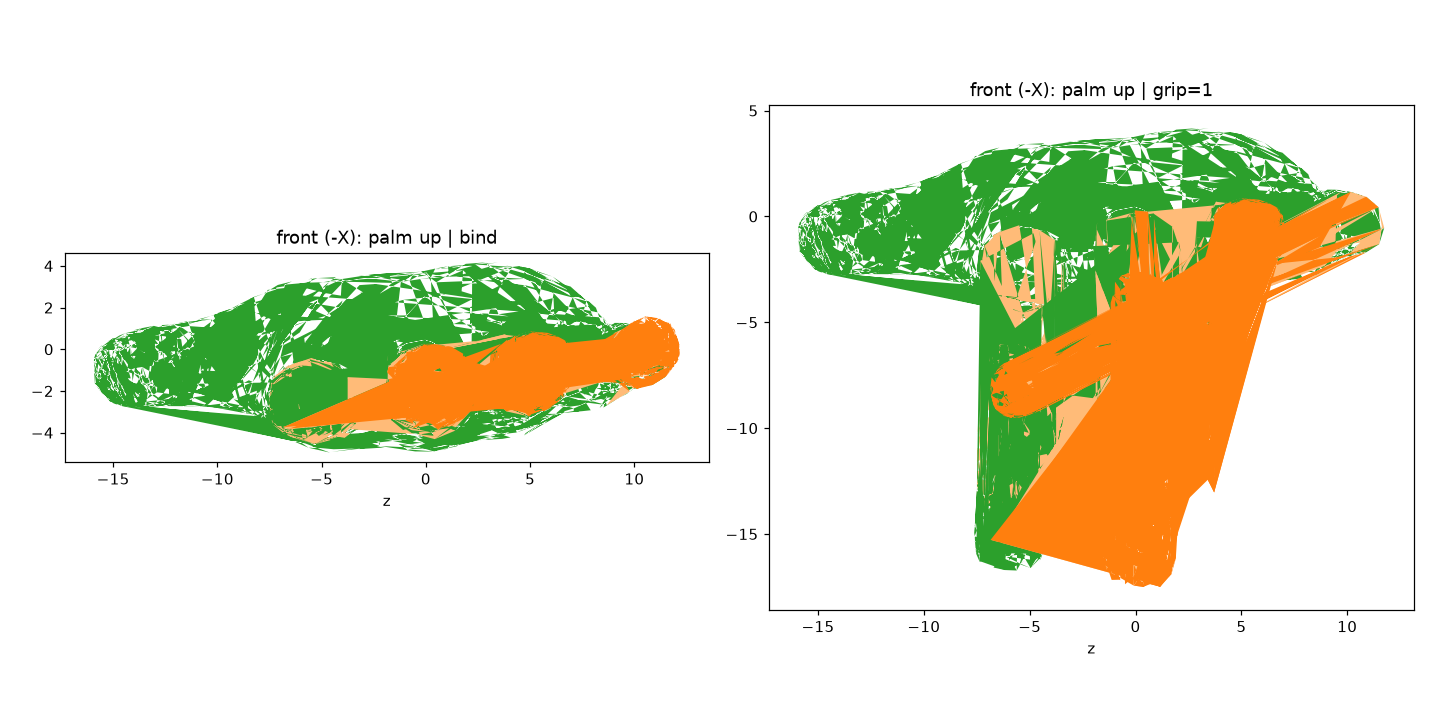
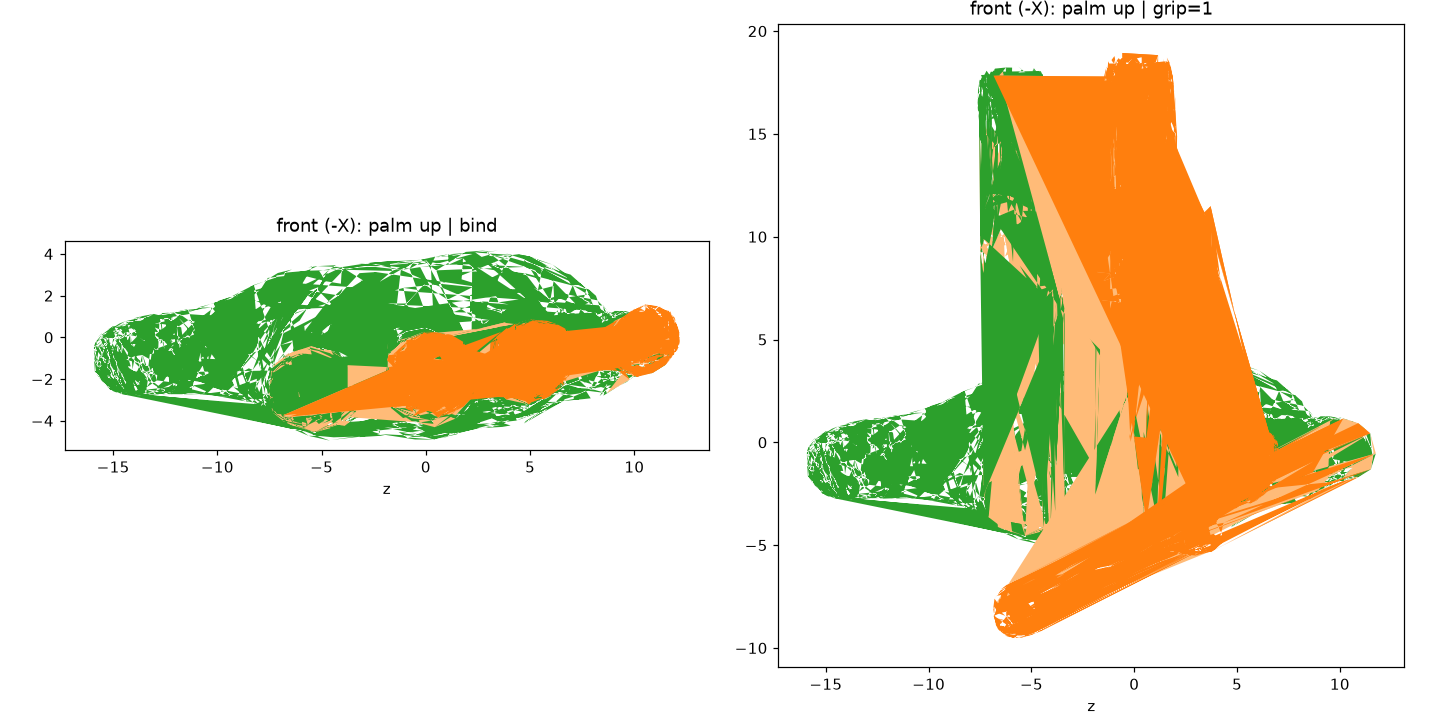
fix(vr-hands): correct runtime finger fold direction
With the corrected bind pivots the old axes (R +z, L -z) bent the fingers
backward (tips ~10 units above the palm, left hand mirrored wrong). Flip
to R -z / L +z: fingers now curl toward the palm on both hands (tips swing
down/up toward each palm, symmetric mirror). Thumb axes unchanged (they
already fold toward the palms).

diff --git a/PenumbraOverture/PlayerHands.cpp b/PenumbraOverture/PlayerHands.cpp
@@ -80,6 +80,9 @@ iHudModel::iHudModel(ePlayerHandType aType)
 {
 	mType = aType;
 	mState = eHudModelState_Idle;
+	mpHandAnimState[0] = NULL;
+	mpHandAnimState[1] = NULL;
+	mbHandRigSetup = false;
 }
 
 //-----------------------------------------------------------------------
@@ -152,6 +155,112 @@ void iHudModel::LoadEntities()
 	}
 
 	LoadExtraEntites();
+
+	SetupHandAnimation();
+}
+
+//-----------------------------------------------------------------------
+
+void iHudModel::SetupHandAnimation()
+{
+	if(mpEntity == NULL || mbHandRigSetup) return;
+
+	static const char* ksBoneNames[] = {
+		"Middle1","Middle2","Middle3",
+		"Ring1","Ring2","Ring3",
+		"Little1","Little2","Little3",
+		"Index1","Index2","Index3",
+		"Thumb1","Thumb2","Thumb3"
+	};
+	static const int lNumBones = 15;
+
+	//Own rotation per joint in degrees. Grab: middle/ring/little/thumb.
+	//Trigger: index. (Cumulative: Middle/Ring 60/120/165, Little 55/110/150,
+	//Index 55/110/155, Thumb 40/75.)
+	static const float kfGrabAngles[lNumBones] = {
+		60,60,45,	//Middle
+		60,60,45,	//Ring
+		55,55,40,	//Little
+		0,0,0,		//Index
+		40,35,0		//Thumb
+	};
+	static const float kfTriggerAngles[lNumBones] = {
+		0,0,0,		//Middle
+		0,0,0,		//Ring
+		0,0,0,		//Little
+		55,55,45,	//Index
+		0,0,0		//Thumb
+	};
+
+	int lBoneIdx[lNumBones];
+	for(int i=0; i<lNumBones; ++i)
+	{
+		lBoneIdx[i] = mpEntity->GetBoneStateIndex(ksBoneNames[i]);
+		if(lBoneIdx[i] < 0)
+		{
+			mbHandRigSetup = true;
+			return;
+		}
+	}
+
+	const bool bLeft = (mlHandIndex == 0);
+	cVector3f vFingerAxis = cVector3f(0,0, bLeft ? 1.0f : -1.0f);
+	cVector3f vThumbAxis = cVector3f(0, 0.8910f, bLeft ? -0.4540f : 0.4540f);
+
+	static const char* ksPoseNames[] = { "HandGrab", "HandTrigger" };
+	static const float* kfPoseAngles[] = { kfGrabAngles, kfTriggerAngles };
+
+	for(int p=0; p<2; ++p)
+	{
+		cAnimation *pAnim = hplNew( cAnimation, (ksPoseNames[p], "") );
+		pAnim->SetLength(0.001f);
+
+		for(int i=0; i<lNumBones; ++i)
+		{
+			if(kfPoseAngles[p][i] == 0.0f) continue;
+
+			cAnimationTrack *pTrack = pAnim->CreateTrack(ksBoneNames[i], eAnimTransformFlag_Rotate);
+			pTrack->SetNodeIndex(lBoneIdx[i]);
+
+			cKeyFrame *pFrame = pTrack->CreateKeyFrame(0);
+			cVector3f vAxis = (i >= 12) ? vThumbAxis : vFingerAxis;
+			pFrame->rotation = cQuaternion(cMath::ToRad(kfPoseAngles[p][i]), vAxis);
+		}
+
+		mpHandAnimState[p] = mpEntity->AddAnimation(pAnim, ksPoseNames[p], 1.0f);
+		mpHandAnimState[p]->SetActive(true);
+		mpHandAnimState[p]->SetLoop(true);
+		mpHandAnimState[p]->SetPaused(true);
+		mpHandAnimState[p]->SetWeight(0.0f);
+	}
+
+	mbHandRigSetup = true;
+}
+
+//-----------------------------------------------------------------------
+
+void iHudModel::DestroyHandAnimation()
+{
+	mpHandAnimState[0] = NULL;
+	mpHandAnimState[1] = NULL;
+	mbHandRigSetup = false;
+}
+
+//-----------------------------------------------------------------------
+
+void iHudModel::UpdateHandAnimation()
+{
+	if(mpHandAnimState[0] == NULL) return;
+
+	TrackedController &hand = mlHandIndex == 0 ? mpInit->mpGame->vr_left_hand
+											   : mpInit->mpGame->vr_right_hand;
+	const TrackedController::HandSummary &summary = hand.GetHandSummary();
+
+	float fGrip = summary.valid ? summary.grip : 0.0f;
+	float fTrigger = summary.valid ? summary.trigger : 0.0f;
+
+	mpHandAnimState[0]->SetWeight(fGrip);
+	mpHandAnimState[1]->SetWeight(fTrigger);
 }
 
 //-----------------------------------------------------------------------
@@ -200,6 +309,8 @@ void iHudModel::DestroyEntities()
 	mvSoundEntities.clear();
 
 	DestroyExtraEntities();
+
+	DestroyHandAnimation();
 }
 
 //-----------------------------------------------------------------------
@@ -425,6 +536,8 @@ void cPlayerHands::Update(float afTimeStep)
 
     if (pHudModel->mpEntity != nullptr)
       pHudModel->mpEntity->SetMatrix(mtxPose);
+
+    pHudModel->UpdateHandAnimation();
 	}
 }
 

diff --git a/scripts/render_hand.py b/scripts/render_hand.py
@@ -26,7 +26,7 @@ GRIP = {
     'Index1': 0, 'Index2': 0, 'Index3': 0,
     'Thumb1': 40, 'Thumb2': 35, 'Thumb3': 0,
 }
-FINGER_AXIS = np.array([0.0, 0.0, 1.0])     # right hand
+FINGER_AXIS = np.array([0.0, 0.0, -1.0])     # right hand
 THUMB_AXIS = np.array([0.0, 0.8910, 0.4540])  # right hand
 
 
